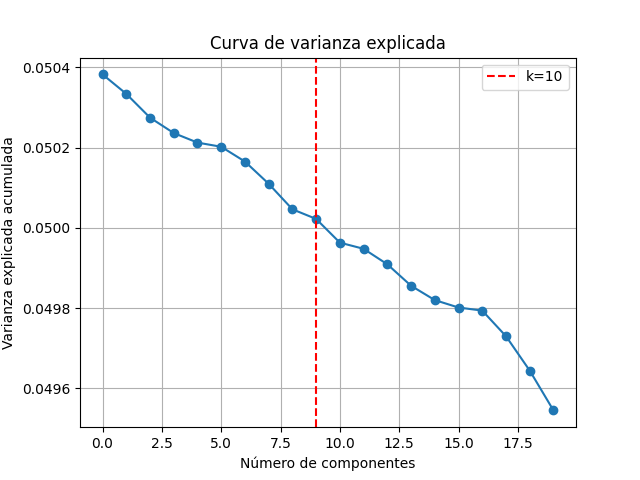
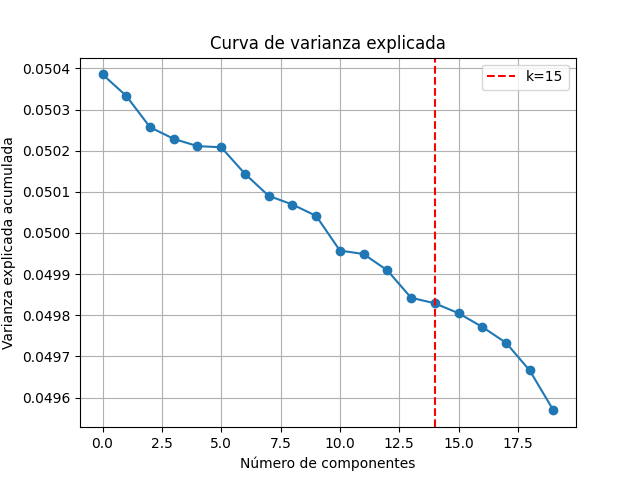
Normalizacion y PCA terminado

diff --git a/Preprocesamiento/PCA.py b/Preprocesamiento/PCA.py
@@ -5,45 +5,62 @@ import matplotlib.pyplot as plt
 
 #Cagar el archivo CSV columnas de 2 a 21 (atributos)
 X = np.loadtxt('Preprocesamiento/puntos.csv', delimiter=',', skiprows=1, usecols=range(2, 22))
-
 n_muestras, n_atributos = X.shape
+
+
 # Mostrar la forma de la matriz
 print(f"numero_muestras: {n_muestras}, dimensiones = {n_atributos}\n")
+
 
 #Resumen estadístico por columna
 for i in range(n_atributos):
     print(f"Atributo{i+1}: minimo={X[:, i].min()}, maximo={X[:, i].max()}, media={X[:, i].mean():.2f}")
+   
     
 #Calcular la media manualmente
-mean_vector = np.sum(X, axis=0) / n_muestras
-print(f"\nMedia: {mean_vector}")
+media_vector = np.mean(X, axis=0)
+std_vector = np.std(X, axis=0,ddof=1)
 
-#Restar la media a cada valor para centrar los datos
-X_centro = X - mean_vector
+print(f"\nMedia: {media_vector}")
+print(f"Desviación estándar: {std_vector}")
+
+
+#Estandarizar los datos (media 0, desviación estándar 1)
+X_estandarizado = (X - media_vector) / std_vector
+
 
 #Verificar que la media de los datos centrados es cero
-print(f"\nMedia de los datos centrados:")
-print(np.mean(X_centro, axis=0))
+print(f"\nMedia de los datos estandarizados: (debe ser 0):")    
+print(np.mean(X_estandarizado, axis=0))
 
-#Calcular cada entrada de la matrixz de covarianza
-covarianza_matriz = np.zeros((n_atributos, n_atributos))
+print(f"\nDesviación estándar de los datos estandarizados (debe ser ~1):")
+print(np.std(X_estandarizado, axis=0, ddof=1))
+
+
+#Calcular cada entrada de la matrixz de covarianza de los datos estandarizados
+matriz_de_covarianza = np.zeros((n_atributos, n_atributos))
 for i in range(n_atributos):
     for j in range(n_atributos):
-        covarianza_matriz[i, j] = np.sum(X_centro[:, i] * X_centro[:, j]) / (n_muestras - 1)
+        matriz_de_covarianza[i, j] = np.sum(X_estandarizado[:, i] * X_estandarizado[:, j]) / (n_muestras - 1)
+
 
 #Verificar que la matriz de covarianza es simétrica
-print("Cov es simétrica:", np.allclose(covarianza_matriz, covarianza_matriz.T))
+print("Cov es simétrica:", np.allclose(matriz_de_covarianza, matriz_de_covarianza.T))
+
 
 #Calcular los autovalores y autovectores
-autovalores, autovectores = np.linalg.eig(covarianza_matriz)
+autovalores, autovectores = np.linalg.eigh(matriz_de_covarianza)
+
 
 #Verificar que los autovalores son positivos
-print("Autovlalores > 0:", np.all(autovalores > 0))
+print("\nAutovlalores > 0:", np.all(autovalores > 0))
+
 
 #Ordenar los autovalores y autovectores manualmente de mayor a menor
 idx_sorted = np.argsort(autovalores)[::-1]
 autovalores_ordenados = autovalores[idx_sorted]
 autovectores_ordenados = autovectores[:, idx_sorted]
+
 
 #Mostrar la varianza explicada total y parcial
 total_varianza = np.sum(autovalores_ordenados)
@@ -51,23 +68,35 @@ ratio_varianza_explicada = autovalores_ordenados / total_varianza
 for i in range(n_atributos):
     print(f"COMPONENTE {i+1}: {ratio_varianza_explicada[i]*100:.2f}% de la varianza")
 
-#Verificar ortogonalidad de los autovectores
-dot_productos = np.dot(autovectores_ordenados.T, autovectores_ordenados)
-print("Matriz de productos punto (debe ser identidad):")
-print(dot_productos)
 
-#Seleccionar las k componentes principales
-k = 10
+#Verificar ortogonalidad de los autovectores
+matriz_de_ortigonalidad = np.dot(autovectores_ordenados.T, autovectores_ordenados)
+print("Matriz de productos punto (debe ser identidad):")
+print(matriz_de_ortigonalidad)
+
+
+#Elegir k automáticamente según la varianza acumulada deseada
+
+#umbral = 0.95
+#varianza_acumulada = np.cumsum(ratio_varianza_explicada)
+#k = np.searchsorted(varianza_acumulada, umbral) + 1
+#print(f"\nSe seleccionan {k} componentes para explicar al menos el {umbral*100:.1f}% de la varianza acumulada")
+
+k = 15;
 W = autovectores_ordenados[:, :k]
+
 
 #Verificar forma de la matriz de proyección
 print("Forma de W:",W.shape)  #debería ser (n_atributos, k)
 
+
 #Proyectar los datos centrados al nuevo subespacio
-X_pca = np.dot(X_centro, W)
+X_pca = np.dot(X_estandarizado, W)
+
 
 #Cargas lat y long a la matriz PCA
 latlong = np.loadtxt('Preprocesamiento/puntos.csv', delimiter=',', skiprows=1, usecols=(0, 1))
+
 
 #Formato de la matriz PCA
 print("Forma de X_pca:", X_pca.shape) 
@@ -75,10 +104,31 @@ print("Matriz PCA", k, "dimensiones:\n")
 print(X_pca[:10])  # Mostrar las primeras 10 filas de la matriz PCA
 
 
+# Concatenar lat, long con componentes principales
 X_final = np.hstack((latlong, X_pca))
-print("Forma final con lat, long y PCA:\n", X_final.shape)
-print(X_final[:10])
+print("Forma final con lat, long y PCA: ", X_final.shape)
+np.set_printoptions(precision=4, suppress=True)  # Para mostrar menos decimales
+print(X_final[:3])
 
+
+#Convertir a DataFrame
+df_final = pd.DataFrame(X_final, columns=['lat', 'long'] + [f'attr{i+1}' for i in range(k)])
+df_copia = df_final.copy()
+
+pca_columnas = df_final.columns[2:]  # Atributos PCA
+df_copia[pca_columnas] = df_copia[pca_columnas].round(4)  # Redondear a 4 decimales
+
+#Guardar en CSV, datos sin redondear decimales
+#df_final.to_csv('Preprocesamiento/pca_puro.csv', index=False)
+#print("Datos PCA guardados en 'Preprocesamiento/pca.csv'")
+
+
+#Guardar en CSV 4 decimales
+df_copia.to_csv('Preprocesamiento/pca_4_dec.csv', index=False)
+print("Datos PCA guardados en 'Preprocesamiento/pca_4_dec.csv'")
+
+
+# Graficar varianza explicada
 plt.plot(ratio_varianza_explicada, marker='o')
 plt.axvline(x=k-1, color='r', linestyle='--', label=f'k={k}')
 plt.xlabel('Número de componentes')
@@ -87,6 +137,7 @@ plt.title('Curva de varianza explicada')
 plt.legend()
 plt.grid(True)
 
-# En vez de plt.show(), guarda la figura en un archivo
+
+#Guarda la figura en un archivo
 plt.savefig('Preprocesamiento/varianza_explicada.png')
 print("Gráfica guardada en 'varianza_explicada.png'")
